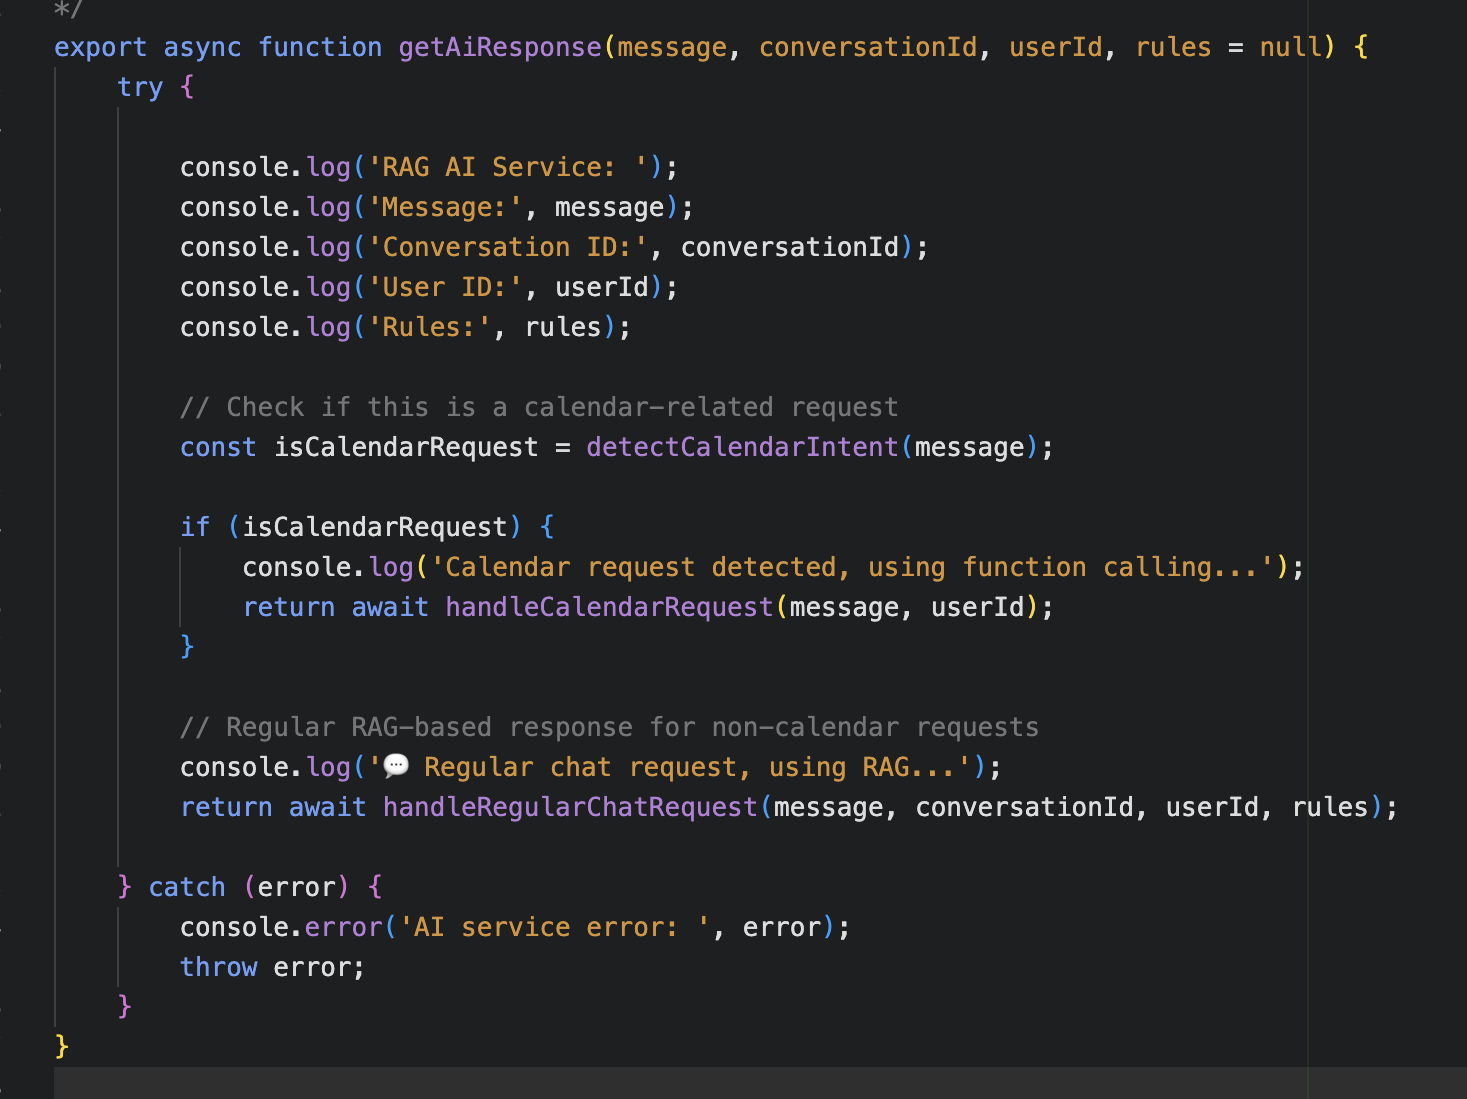
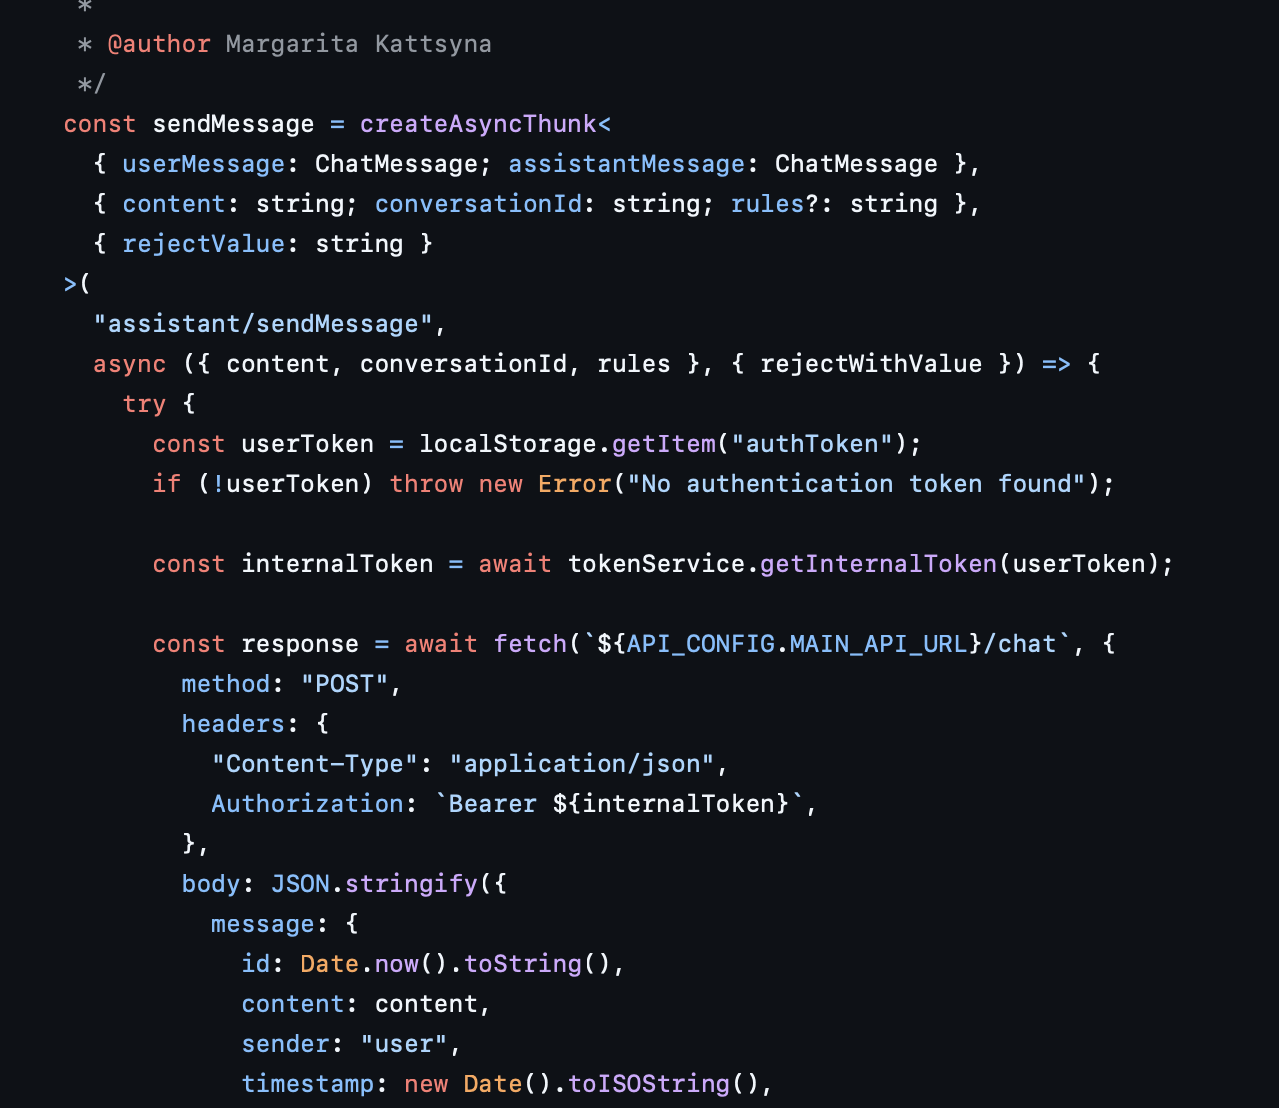
Fix: chatbot image prop

diff --git a/frontend/src/data/index.jsx b/frontend/src/data/index.jsx
@@ -78,10 +78,10 @@ const portfolio = [
         github: "https://github.com/prostodiva/CRM",
     },
     {
-        name: "AI-assistent",
+        name: "AI-assistant",
         description:
         "A full-stack web application that combines AI chatbot capabilities with Google Calendar integration, enabling users to manage their schedule through natural language conversations.",
-        img: chatbot,
+        image: chatbot,
         github: "https://github.com/prostodiva/chatbot-v2",
     }
 ];
